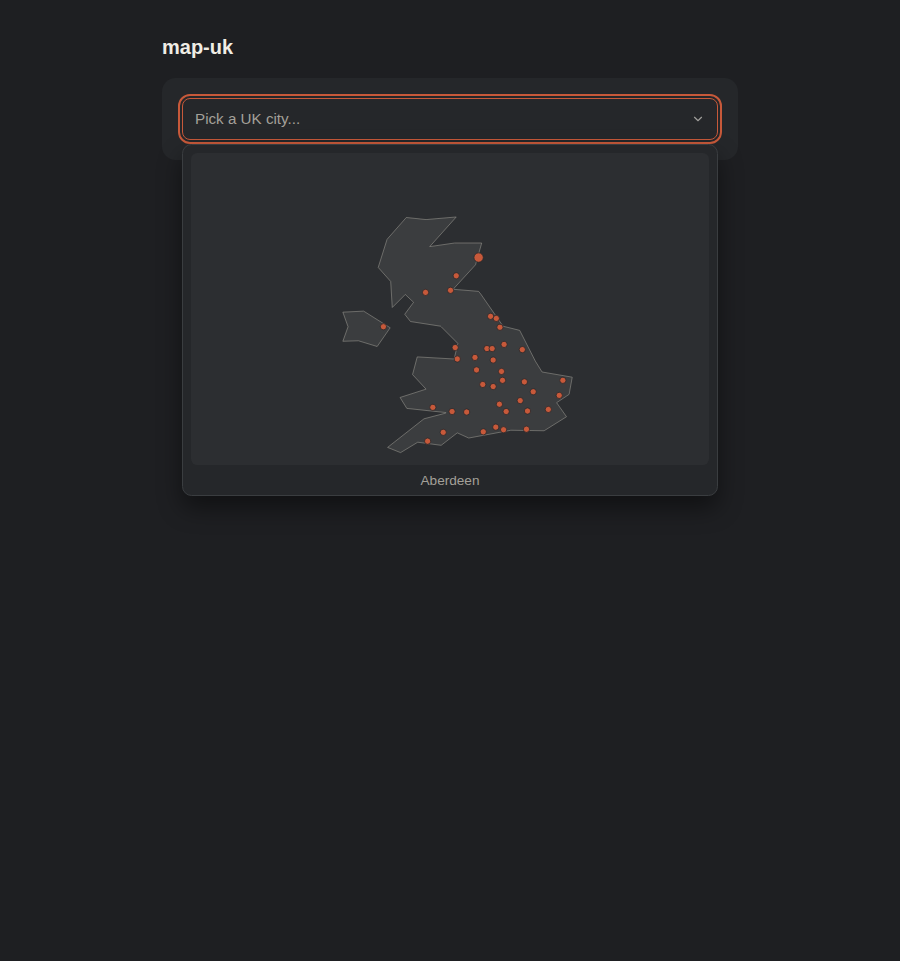
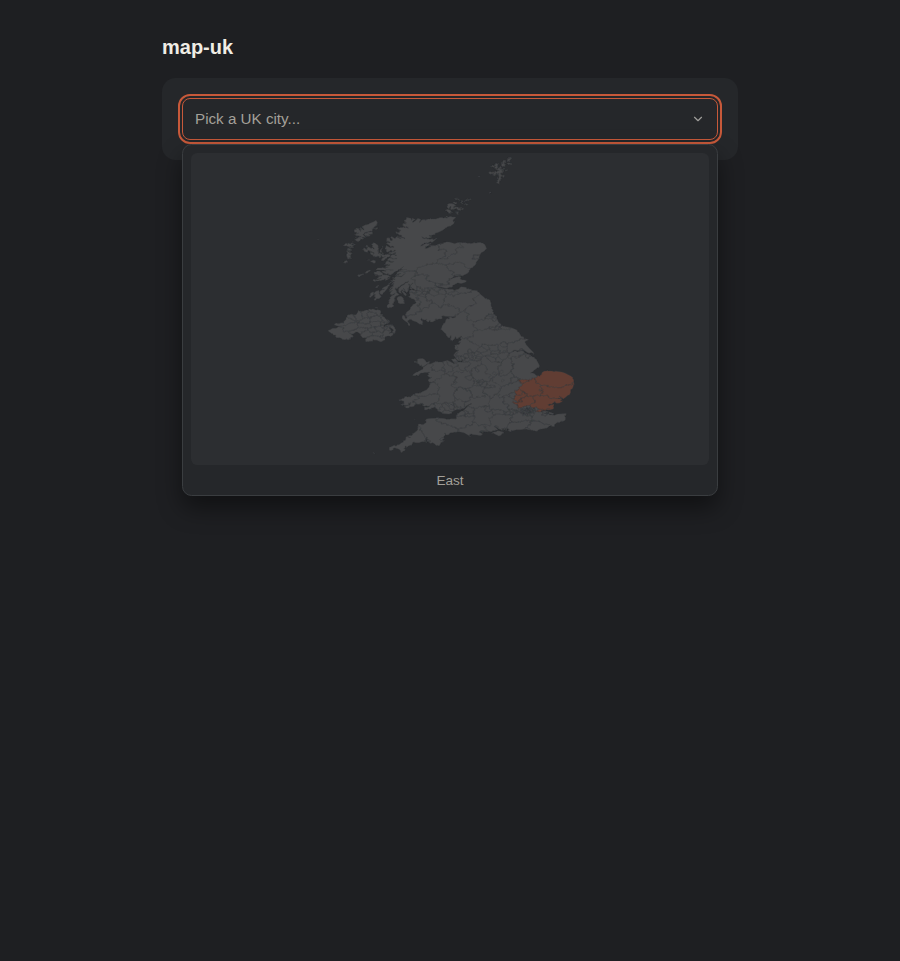
v3.1.0 · clickable region polygons (not dots) all the way down
UK datasets re-shaped from city POINTS to region POLYGONS · click
anywhere in a region selects it, just like clicking a country in
the world map.

- uk.json now ships 16 Natural Earth admin-1 regions (Greater London,
  South East, Scotland, …) grouped from the raw 232 sub-features.
  Each region is one SVG path concatenating its sub-features' outer
  rings so the whole region behaves as a single click target while
  still showing internal sub-borders visually.
- 16 new per-region datasets: uk-greater-london.json (33 boroughs),
  uk-south-east.json (19), uk-scotland.json … each re-projected into
  a tight per-region viewBox so the zoom is useful at any level.
- New dataset shortcut: dataset="uk:greater-london" resolves via
  MapData::ukRegion('greater-london'). MapData::uk() / ::ukRegion()
  / ::ukTowns() are now siblings; the dot-marker towns dataset is
  kept around as an alternative aesthetic.
- Lab map-drilldown swaps the third map from uk-towns:london (dots)
  to uk:greater-london (33 borough polygons). The Dusk drilldown
  spec picks gb → greater-london → camden through three SVGs.

diff --git a/bin/build-map-data.py b/bin/build-map-data.py
@@ -144,56 +144,105 @@ def build_world(src_dir, out_dir):
 
 
 def build_uk(src_dir, out_dir):
-    """UK map = outline (non-interactive background) + city POINTS (clickable
-    drilldown items). The user clicks a city dot, that's the level-2 pick."""
-    # 1. Extract UK outline from admin-0.
-    admin0_path = os.path.join(src_dir, 'ne_110m_admin_0_countries.geojson')
-    with open(admin0_path, 'r') as f:
-        admin0 = json.load(f)
-    uk_feat = next((
-        f for f in admin0['features']
-        if (f['properties'].get('ADM0_A3') or '').upper() == 'GBR'
-    ), None)
-    if not uk_feat:
-        raise RuntimeError('No GBR feature in admin-0')
-    outline = geom_to_path(uk_feat['geometry'], project_uk)
+    """UK map = ~16 clickable region polygons grouped from admin-1 by the
+    `region` field. Each region is a single SVG path concatenating every
+    sub-feature's outer ring, so the whole region behaves as one click
+    target even though it visually shows sub-borders."""
+    admin1_path = os.path.join(src_dir, 'ne_10m_admin_1_states_provinces.geojson')
+    with open(admin1_path, 'r') as f:
+        admin1 = json.load(f)
 
-    # 2. Extract UK city points from populated_places.
-    places_path = os.path.join(src_dir, 'ne_10m_populated_places.geojson')
-    with open(places_path, 'r') as f:
-        places = json.load(f)
-    items = []
-    seen = set()
-    for feat in places['features']:
+    # Group GB features by their `region` field.
+    by_region = {}
+    for feat in admin1['features']:
         props = feat['properties']
-        if (props.get('ADM0_A3') or '').upper() != 'GBR':
+        if props.get('admin') != 'United Kingdom':
             continue
-        pop = props.get('POP_MAX') or props.get('POP_MIN') or 0
-        if pop < 100000:
+        region = (props.get('region') or '').strip()
+        if not region:
             continue
-        name = props.get('NAME') or props.get('NAME_EN') or ''
-        if not name or name in seen:
+        by_region.setdefault(region, []).append(feat)
+
+    items = []
+    for region, feats in by_region.items():
+        # Concat every sub-feature's outer-ring path → one combined SVG d-string.
+        paths = []
+        for feat in feats:
+            p = geom_to_path(feat['geometry'], project_uk)
+            if p:
+                paths.append(p)
+        d = ' '.join(paths)
+        if not d:
             continue
-        seen.add(name)
-        geom = feat['geometry']
-        if geom['type'] != 'Point':
-            continue
-        lon, lat = geom['coordinates']
-        if not (UK_BBOX_LON[0] <= lon <= UK_BBOX_LON[1] and UK_BBOX_LAT[0] <= lat <= UK_BBOX_LAT[1]):
-            continue
-        x, y = project_uk(lon, lat)
-        key = re.sub(r'[^a-z0-9]+', '-', name.lower()).strip('-')
-        items.append({'key': key, 'title': name, 'cx': x, 'cy': y})
+        key = re.sub(r'[^a-z0-9]+', '-', region.lower()).strip('-')
+        items.append({'key': key, 'title': region, 'path': d, 'bbox': bbox_of_path(d)})
     items.sort(key=lambda x: x['title'])
 
     out_path = os.path.join(out_dir, 'uk.json')
     with open(out_path, 'w') as f:
         json.dump({
             'viewBox': f'0 0 {UK_W} {UK_H}',
-            'outline': outline,
             'items': items,
         }, f, separators=(',', ':'))
-    print(f'uk.json   {len(items)} cities   {os.path.getsize(out_path)} bytes')
+    print(f'uk.json   {len(items)} regions   {os.path.getsize(out_path)} bytes')
+
+    # Per-region sub-feature datasets · uk-greater-london.json, uk-south-east.json …
+    # Each one re-projects into its own region-tight bbox so the zoom is useful.
+    for region, feats in by_region.items():
+        key = re.sub(r'[^a-z0-9]+', '-', region.lower()).strip('-')
+        # Compute the region's lon/lat bbox from sub-feature coords.
+        lons, lats = [], []
+        for feat in feats:
+            geom = feat['geometry']
+            polys = geom.get('coordinates') or []
+            if geom['type'] == 'Polygon':
+                polys = [polys]
+            for poly in polys:
+                for ring in poly:
+                    for lon, lat in ring:
+                        lons.append(lon)
+                        lats.append(lat)
+        if not lons:
+            continue
+        # Add a small padding · 5% of the span each side.
+        lon_w, lon_e = min(lons), max(lons)
+        lat_s, lat_n = min(lats), max(lats)
+        pad_lon = (lon_e - lon_w) * 0.05 or 0.05
+        pad_lat = (lat_n - lat_s) * 0.05 or 0.05
+        lon_w -= pad_lon; lon_e += pad_lon
+        lat_s -= pad_lat; lat_n += pad_lat
+        view_w, view_h = 500, 500
+
+        def project(lon, lat, _w=lon_w, _e=lon_e, _s=lat_s, _n=lat_n, _vw=view_w, _vh=view_h):
+            x = round((lon - _w) * _vw / (_e - _w))
+            y = round((_n - lat) * _vh / (_n - _s))
+            return x, y
+
+        sub_items = []
+        for feat in feats:
+            props = feat['properties']
+            name = props.get('name') or props.get('name_en') or ''
+            if not name:
+                continue
+            d = geom_to_path(feat['geometry'], project)
+            if not d:
+                continue
+            sub_key = re.sub(r'[^a-z0-9]+', '-', name.lower()).strip('-')
+            sub_items.append({
+                'key': sub_key,
+                'title': name,
+                'path': d,
+                'parent': key,
+                'bbox': bbox_of_path(d),
+            })
+        sub_items.sort(key=lambda x: x['title'])
+        out_sub = os.path.join(out_dir, f'uk-{key}.json')
+        with open(out_sub, 'w') as f:
+            json.dump({
+                'viewBox': f'0 0 {view_w} {view_h}',
+                'items': sub_items,
+            }, f, separators=(',', ':'))
+        print(f'uk-{key}.json   {len(sub_items)} sub-regions   {os.path.getsize(out_sub)} bytes')
 
 
 def build_uk_towns(src_dir, out_dir):
@@ -314,4 +363,7 @@ if __name__ == '__main__':
     os.makedirs(out, exist_ok=True)
     build_world(src, out)
     build_uk(src, out)
+    # build_uk_towns kept as a separate optional dataset (point markers for
+    # hand-curated town lists per major city) — the polygon flow above now
+    # provides the primary drilldown via uk-<region>.json files.
     build_uk_towns(src, out)

diff --git a/src/MapData.php b/src/MapData.php
@@ -23,16 +23,31 @@ class MapData
         return self::load('world.json');
     }
 
-    /** UK country map · outline polygon + ~40 major-city points. */
+    /** UK country map · ~16 clickable region polygons (Greater London,
+     *  South East, Scotland, etc) grouped from Natural Earth admin-1.
+     *  Click a region to drill into uk-<region>.json. */
     public static function uk(): array
     {
         return self::load('uk.json');
     }
 
+    /** A UK region's sub-region polygons · pass 'greater-london',
+     *  'south-east', 'scotland', etc. Returns an empty list if the
+     *  region key isn't recognised. */
+    public static function ukRegion(string $regionKey): array
+    {
+        $file = 'uk-'.preg_replace('/[^a-z0-9-]+/', '', strtolower($regionKey)).'.json';
+        $path = __DIR__.'/../resources/data/'.$file;
+        if (! is_file($path)) {
+            return ['viewBox' => '0 0 500 500', 'items' => []];
+        }
+        return self::load($file);
+    }
+
     /**
-     * Town-level dataset keyed by city · returns one bucket or the full set.
-     * Each bucket has its own zoomed viewBox so the town-detail map renders
-     * at a comparable scale regardless of where the city sits.
+     * Hand-curated town markers per major UK city · returns one bucket or
+     * the full set. Kept around as an alternative to the polygon-based
+     * uk-<region>.json drilldown for point-marker aesthetics.
      */
     public static function ukTowns(?string $cityKey = null): array
     {

diff --git a/resources/views/components/map-svg-alpine.blade.php b/resources/views/components/map-svg-alpine.blade.php
@@ -26,9 +26,11 @@
             default => null,
         };
         if ($loaded === null) {
-            // Town buckets are addressed as uk-towns:london, uk-towns:manchester …
             if (str_starts_with($dataset, 'uk-towns:')) {
                 $loaded = \LoggedCloud\Select\MapData::ukTowns(substr($dataset, 9));
+            } elseif (str_starts_with($dataset, 'uk:')) {
+                // uk:greater-london, uk:south-east, uk:scotland …
+                $loaded = \LoggedCloud\Select\MapData::ukRegion(substr($dataset, 3));
             }
         }
         if ($loaded !== null) {

diff --git a/README.md b/README.md
@@ -25,6 +25,13 @@ A family of accessible select widgets for Laravel apps. Each component name spel
 
 Naming convention is **`<behaviour>-<driver>`**: behaviour first (`searchable`, `multi`, `radio-grid`, `card-multi`, `tags`, …), driver second (`alpine`, `livewire`, ...). Future entries (`remote-livewire` for server-side search, `native` for a no-JS fallback, …) slot in alongside without forcing a new `composer require`.
 
+### v3.1 highlights · clickable region polygons all the way down
+
+- **UK is now polygons, not dots** · `uk.json` ships 16 Natural Earth admin-1 regions (Greater London, South East, Scotland, etc) grouped from the raw 232 sub-features. Each region is one SVG path that visually shows internal sub-borders while clicking anywhere selects the region.
+- **Per-region drilldown datasets** · `resources/data/uk-greater-london.json`, `uk-south-east.json`, `uk-scotland.json`, … one file per UK region with its sub-region polygons re-projected into a tight per-region viewBox so the zoom is useful.
+- **`dataset="uk:<region>"`** shortcut · the component resolves `dataset="uk:greater-london"` to the matching file via the new `MapData::ukRegion('greater-london')` helper.
+- The hand-curated dot-marker `uk-towns.json` is kept as an alternative — apps that prefer point markers over polygons can still use it.
+
 ### v3.0 highlights · `map-svg-alpine` + bundled world / UK data
 
 - **New variant `map-svg-alpine`** · same trigger / menu / a11y pattern as the dropdown family, but the menu content is an `<svg>` with each item as a clickable `<path>` (polygon) or `<circle>` (point). Keyboard arrow / Home / End cycle through items; the bottom hover-strip shows the active item's title.